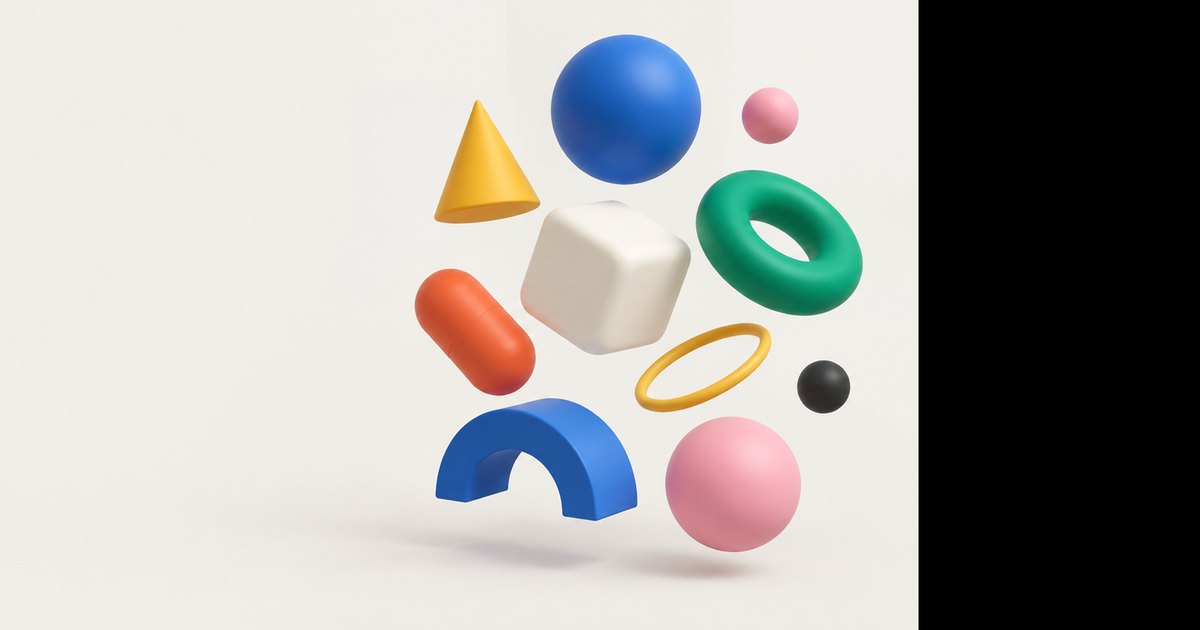
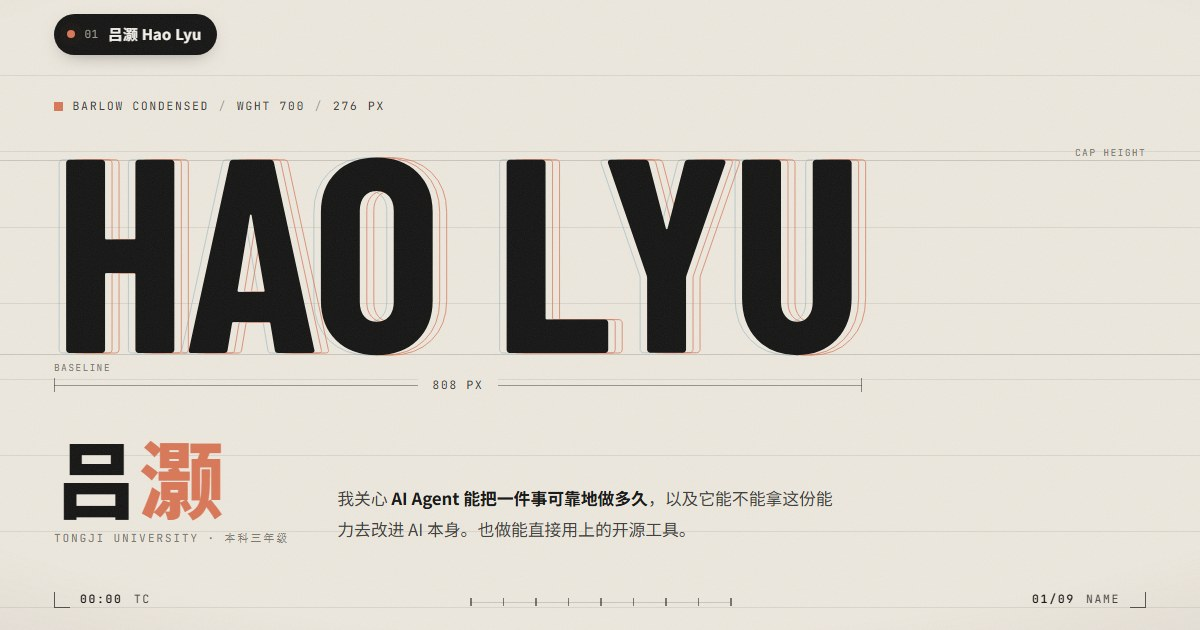
Patent section: replace scanned figures with a drawn inspection animation and method flow; self-made social preview

diff --git a/assets/js/site.js b/assets/js/site.js
@@ -374,5 +374,116 @@
       ctx.strokeStyle = CLAY; ctx.lineWidth = 2; ctx.beginPath(); ctx.arc(cx, cy, R * 0.28 + 8 + Math.sin(t * 2) * 3, 0, 7); ctx.stroke();
     }
   };
+  /* 专利示意：扫描线扫过支护墙面，识别裂缝、剥落、渗漏并换算尺寸（自绘，数值仅为演示） */
+  covers.defect = function (ctx, W, H, t, dt, st) {
+    ctx.clearRect(0, 0, W, H);
+    var x0 = W * 0.08, x1 = W * 0.92, y0 = H * 0.12, y1 = H * 0.74, ww = x1 - x0, wh = y1 - y0;
+    function X(u) { return x0 + u * ww; } function Y(v) { return y0 + v * wh; }
+    var mono = function (px) { return '500 ' + px + 'px "JetBrains Mono", ui-monospace, monospace'; };
+    var fs = Math.max(9, Math.min(12, W * 0.024)), mmPerPx = 6000 / wh;
+    if (!st.defs || st.W !== W) {
+      st.W = W;
+      var spall = []; for (var k = 0; k < 11; k++) { var a = k / 11 * Math.PI * 2, r = 0.05 + 0.018 * Math.sin(k * 2.7) + 0.01 * Math.cos(k * 5.1); spall.push([0.46 + Math.cos(a) * r * 0.8, 0.86 + Math.sin(a) * r * 0.62]); }
+      st.defs = [
+        { kind: 'CRACK', rank: 'P1', place: 'above', pts: [[0.12, 0.37], [0.15, 0.41], [0.14, 0.45], [0.19, 0.5], [0.18, 0.55], [0.24, 0.6], [0.29, 0.62]], br: [[0.19, 0.5], [0.24, 0.49], [0.27, 0.45]] },
+        { kind: 'LEAK', rank: 'P2', place: 'left', leak: [0.77, 0.03, 0.25] },
+        { kind: 'CRACK', rank: 'P3', place: 'below', pts: [[0.55, 0.4], [0.58, 0.45], [0.57, 0.49], [0.62, 0.53], [0.64, 0.58]] },
+        { kind: 'SPALL', rank: 'P2', place: 'below', poly: spall }
+      ];
+      st.defs.forEach(function (d) {
+        var ps = d.pts ? d.pts.concat(d.br || []) : d.poly ? d.poly : [[d.leak[0] - 0.02, d.leak[1]], [d.leak[0] + 0.02, d.leak[2] + 0.03]];
+        d.u0 = Math.min.apply(null, ps.map(function (p) { return p[0]; })); d.u1 = Math.max.apply(null, ps.map(function (p) { return p[0]; }));
+        d.v0 = Math.min.apply(null, ps.map(function (p) { return p[1]; })); d.v1 = Math.max.apply(null, ps.map(function (p) { return p[1]; }));
+        if (d.pts) { var L = 0; for (var i = 1; i < d.pts.length; i++) L += Math.hypot((d.pts[i][0] - d.pts[i - 1][0]) * ww, (d.pts[i][1] - d.pts[i - 1][1]) * wh); d.label = 'L ' + (L * mmPerPx / 1000).toFixed(2) + ' m · W95 ' + (d.rank === 'P1' ? '1.8' : '0.6') + ' mm'; }
+        else if (d.poly) { var A = 0; for (var j = 0; j < d.poly.length; j++) { var p = d.poly[j], q = d.poly[(j + 1) % d.poly.length]; A += (p[0] * q[1] - q[0] * p[1]) * ww * wh; } d.label = 'A ' + (Math.abs(A / 2) * mmPerPx * mmPerPx / 1e6).toFixed(2) + ' m²'; }
+        else d.label = 'L ' + ((d.leak[2] - d.leak[1]) * wh * mmPerPx / 1000).toFixed(2) + ' m';
+      });
+    }
+    // 墙板（钢板桩式分格）
+    var n = 6, pw = ww / n;
+    for (var i = 0; i < n; i++) {
+      ctx.beginPath(); rr(ctx, x0 + i * pw + 2, y0, pw - 4, wh, 4);
+      ctx.fillStyle = 'rgba(237,232,222,.045)'; ctx.fill(); ctx.strokeStyle = 'rgba(237,232,222,.2)'; ctx.lineWidth = 1; ctx.stroke();
+    }
+    // 参照物（已知尺寸，用于求单应性）
+    var rs = ww * 0.075, rx = X(0.9) - rs, ry = Y(0.93) - rs;
+    ctx.fillStyle = CREAM; ctx.fillRect(rx, ry, rs, rs); ctx.fillStyle = INK;
+    [[1, 1], [2, 1], [1, 2], [3, 2], [2, 3]].forEach(function (c) { ctx.fillRect(rx + c[0] * rs / 5, ry + c[1] * rs / 5, rs / 5, rs / 5); });
+    ctx.font = mono(fs * 0.85); ctx.fillStyle = 'rgba(237,232,222,.6)'; ctx.textAlign = 'right'; ctx.fillText('REF 200 mm', rx + rs, ry - 6);
+    // 扫描进度
+    var P = 7, phase = (t % P) / P, su = phase * 1.35 - 0.12, sx = X(su);
+    // 缺陷（原始外观）
+    st.defs.forEach(function (d) {
+      var k = Math.max(0, Math.min(1, (su - d.u1) / 0.07)), hit = k > 0;
+      ctx.strokeStyle = hit ? CLAY : 'rgba(237,232,222,.7)'; ctx.fillStyle = hit ? 'rgba(217,119,87,.55)' : 'rgba(237,232,222,.25)';
+      if (d.pts) {
+        [d.pts, d.br].forEach(function (line, li) {
+          if (!line) return; ctx.lineWidth = (hit ? 2.6 : 1.6) * (li ? 0.7 : 1); ctx.lineJoin = 'round';
+          ctx.beginPath(); line.forEach(function (p, j) { j ? ctx.lineTo(X(p[0]), Y(p[1])) : ctx.moveTo(X(p[0]), Y(p[1])); }); ctx.stroke();
+        });
+      } else if (d.poly) {
+        ctx.beginPath(); d.poly.forEach(function (p, j) { j ? ctx.lineTo(X(p[0]), Y(p[1])) : ctx.moveTo(X(p[0]), Y(p[1])); }); ctx.closePath(); ctx.fill(); ctx.lineWidth = 1.2; ctx.stroke();
+      } else {
+        var lx = X(d.leak[0]), ya = Y(d.leak[1]), yb = Y(d.leak[2]);
+        var g = ctx.createLinearGradient(0, ya, 0, yb); g.addColorStop(0, hit ? 'rgba(217,119,87,.7)' : 'rgba(237,232,222,.5)'); g.addColorStop(1, 'rgba(237,232,222,0)');
+        ctx.fillStyle = g; ctx.beginPath(); ctx.moveTo(lx - ww * 0.012, ya); ctx.quadraticCurveTo(lx - ww * 0.02, (ya + yb) / 2, lx, yb); ctx.quadraticCurveTo(lx + ww * 0.02, (ya + yb) / 2, lx + ww * 0.012, ya); ctx.fill();
+        ctx.beginPath(); ctx.arc(lx, yb + wh * 0.02 + ((t * 40) % (wh * 0.05)), 2.2, 0, 7); ctx.fillStyle = hit ? CLAY : 'rgba(237,232,222,.55)'; ctx.fill();
+      }
+    });
+    // 支撑（钢围檩与横撑）
+    [0.3, 0.68].forEach(function (v) {
+      ctx.fillStyle = 'rgba(237,232,222,.2)'; ctx.fillRect(x0 - 8, Y(v) - 5, ww + 16, 10);
+      for (var b = 0; b <= n; b++) { ctx.beginPath(); ctx.arc(x0 + b * pw, Y(v), 2.6, 0, 7); ctx.fillStyle = 'rgba(237,232,222,.55)'; ctx.fill(); }
+    });
+    // 扫描光带
+    if (su > -0.05 && su < 1.05) {
+      var gb = ctx.createLinearGradient(sx - ww * 0.12, 0, sx, 0); gb.addColorStop(0, 'rgba(217,119,87,0)'); gb.addColorStop(1, 'rgba(217,119,87,.22)');
+      ctx.fillStyle = gb; ctx.fillRect(sx - ww * 0.12, y0 - 8, ww * 0.12, wh + 16);
+      ctx.fillStyle = CLAY; ctx.fillRect(sx - 1, y0 - 14, 2, wh + 28);
+    }
+    // 识别框与标注
+    var found = 0, p1 = false;
+    st.defs.forEach(function (d) {
+      var k = Math.max(0, Math.min(1, (su - d.u1) / 0.07)); if (k <= 0) return; found++; if (d.rank === 'P1') p1 = true;
+      var bx = X(d.u0) - 8, by = Y(d.v0) - 8, bw = X(d.u1) - X(d.u0) + 16, bh = Y(d.v1) - Y(d.v0) + 16, c = 9;
+      ctx.globalAlpha = k; ctx.strokeStyle = CLAY; ctx.lineWidth = 1.5; ctx.beginPath();
+      [[bx, by, 1, 1], [bx + bw, by, -1, 1], [bx, by + bh, 1, -1], [bx + bw, by + bh, -1, -1]].forEach(function (q) { ctx.moveTo(q[0] + q[2] * c, q[1]); ctx.lineTo(q[0], q[1]); ctx.lineTo(q[0], q[1] + q[3] * c); });
+      ctx.stroke();
+      ctx.font = mono(fs); var l1 = d.kind + ' · ' + d.rank, l2 = d.label;
+      var tw = Math.max(ctx.measureText(l1).width, ctx.measureText(l2).width) + 16, lh = fs * 1.35, th = lh * 2 + 8, tx, ty;
+      if (d.place === 'below') { tx = bx; ty = by + bh + 6; }
+      else if (d.place === 'left') { tx = bx - tw - 6; ty = by; }
+      else { tx = bx; ty = by - th - 6; }
+      tx = Math.min(W - tw - 8, Math.max(8, tx)); ty = Math.max(8, ty);
+      ctx.fillStyle = CLAY; ctx.beginPath(); rr(ctx, tx, ty, tw, th, 5); ctx.fill();
+      ctx.fillStyle = INK; ctx.textAlign = 'left'; ctx.textBaseline = 'middle';
+      ctx.font = '600 ' + fs + 'px "JetBrains Mono", ui-monospace, monospace'; ctx.fillText(l1, tx + 8, ty + 4 + lh / 2);
+      ctx.font = mono(fs); ctx.fillText(l2, tx + 8, ty + 4 + lh * 1.5);
+      ctx.textBaseline = 'alphabetic'; ctx.globalAlpha = 1;
+    });
+    // 底部读数
+    var by2 = H * 0.86;
+    ctx.fillStyle = 'rgba(237,232,222,.14)'; ctx.fillRect(x0, by2 - 12, ww, 1);
+    ctx.font = mono(fs); ctx.textAlign = 'left'; ctx.fillStyle = 'rgba(237,232,222,.75)';
+    ctx.fillText('DETECTED ' + found + '/' + st.defs.length + (su > 1 ? ' · SCAN DONE' : ' · SCANNING'), x0, by2 + 8);
+    ctx.fillStyle = p1 ? CLAY : 'rgba(237,232,222,.45)';
+    ctx.fillText(p1 ? 'P1 ≥ τ → VLM + 知识库 → REPORT.json' : 'RISK < τ · 直接汇总', x0, by2 + 8 + fs * 1.9);
+    ctx.textAlign = 'left';
+  };
+
   $$('canvas[data-cover]').forEach(function (cv) { var f = covers[cv.getAttribute('data-cover')]; if (f) stage(cv, f); });
+
+  /* 流程条：逐步点亮 */
+  $$('.flow').forEach(function (ol) {
+    var items = $$('li', ol), i = 0;
+    if (reduced || !('IntersectionObserver' in window)) { items.forEach(function (li) { li.classList.add('on'); }); return; }
+    var io = new IntersectionObserver(function (es) {
+      if (!es[0].isIntersecting) return; io.disconnect();
+      setInterval(function () {
+        if (i > items.length) { items.forEach(function (li) { li.classList.remove('on'); }); i = 0; return; }
+        if (items[i]) items[i].classList.add('on'); i++;
+      }, 900);
+    }, { threshold: 0.3 });
+    io.observe(ol);
+  });
 })();

diff --git a/assets/css/site.css b/assets/css/site.css
@@ -258,11 +258,20 @@ a:hover { color: var(--clay-deep); }
 .patent .num span { color: var(--clay); }
 .patent h3 { font-size: clamp(1.25rem, 2vw, 1.6rem); font-weight: 900; line-height: 1.5; margin: 1.4rem 0 1rem; }
 .patent p { color: var(--ink-2); }
-.figs { display: grid; grid-template-columns: 1fr 1fr; gap: 14px; }
-.figs a { display: block; background: #fff; border-radius: 10px; overflow: hidden; border: 1px solid var(--line-2); text-decoration: none; }
-.figs img { aspect-ratio: 3 / 4; object-fit: cover; object-position: 50% 30%; width: 100%; filter: grayscale(1) contrast(1.05); transition: transform .8s var(--ease); }
-.figs a:hover img { transform: scale(1.04); }
-.figs span { display: block; padding: .55rem .75rem; color: var(--ink-2); border-top: 1px solid var(--line); }
+.patent-fig { margin: 0; }
+.pfig { position: relative; aspect-ratio: 4 / 5; border-radius: 18px; overflow: hidden; background: var(--night); color: var(--cream-on-night); }
+.pfig canvas { position: absolute; inset: 0; width: 100%; height: 100%; display: block; }
+.pfig .tag { position: absolute; left: 16px; top: 14px; z-index: 1; }
+.patent-fig figcaption { margin-top: .7rem; color: var(--mute); }
+.flow { list-style: none; padding: 0; margin: clamp(36px, 5vw, 64px) 0 0; display: grid; grid-template-columns: repeat(6, minmax(0, 1fr)); gap: 10px; counter-reset: s; }
+.flow li { counter-increment: s; position: relative; border-top: 1.5px solid var(--ink); padding: 14px 10px 0 0; display: flex; flex-direction: column; gap: .35rem; transition: color .35s; }
+.flow li::before { content: "0" counter(s); font-family: var(--mono); font-size: .64rem; letter-spacing: .14em; color: var(--mute); }
+.flow li::after { content: ""; position: absolute; left: 0; top: -1.5px; height: 3px; width: 0; background: var(--clay); transition: width .9s var(--ease); }
+.flow li.on::after { width: 100%; }
+.flow li b { font-weight: 900; font-size: 1.02rem; }
+.flow li span { font-size: .84rem; color: var(--ink-2); line-height: 1.6; }
+.flow li:nth-child(5) b::after { content: " ◆"; color: var(--clay); font-size: .7em; vertical-align: .15em; }
+@media (max-width: 900px) { .flow { grid-template-columns: repeat(2, minmax(0, 1fr)); gap: 18px 14px; } }
 @media (max-width: 900px) { .patent { grid-template-columns: 1fr; } }
 
 /* ---------- 获奖（陶土橙带） ---------- */

diff --git a/index.html b/index.html
@@ -211,11 +211,19 @@
           <tr><th>Inventors</th><td>共 7 人 · 本人第 3 位</td></tr>
         </table>
       </div>
-      <div class="figs reveal" style="--d:.12s">
-        <a href="assets/img/patent-fig1.webp" target="_blank" rel="noopener"><img src="assets/img/patent-fig1.webp" alt="专利附图 1：检测方法流程图" loading="lazy" width="1131" height="1600"><span class="mono">Fig. 1 · 方法流程</span></a>
-        <a href="assets/img/patent-fig2.webp" target="_blank" rel="noopener"><img src="assets/img/patent-fig2.webp" alt="专利附图 2：系统功能模块图" loading="lazy" width="1131" height="1600"><span class="mono">Fig. 2 · 系统模块</span></a>
-      </div>
+      <figure class="patent-fig reveal" style="--d:.12s">
+        <div class="pfig"><canvas data-cover="defect" role="img" aria-label="自绘示意动画：扫描线扫过带钢支撑的支护墙面，依次识别裂缝、剥落和渗漏，标注实际尺寸与风险等级"></canvas><span class="tag mono">Fig. A · 支护墙面检测</span></div>
+        <figcaption class="mono">自绘示意 · 数值仅为演示</figcaption>
+      </figure>
     </article>
+    <ol class="flow" aria-label="检测方法的六个步骤">
+      <li><b>采集</b><span>移动装置上的工业相机与定位单元</span></li>
+      <li><b>分割支护区域</b><span>语义分割先剔除背景</span></li>
+      <li><b>缺陷实例</b><span>改进的 YOLOv11-seg 输出裂缝、剥落、渗漏的掩码</span></li>
+      <li><b>换算尺寸</b><span>用参照物求单应性，得到面积、骨架长度、95 分位宽度</span></li>
+      <li><b>风险评分</b><span>按尺寸和形态排序，超过阈值才调用 VLM</span></li>
+      <li><b>诊断报告</b><span>结合知识库给出成因与维修建议，输出 JSON 报告</span></li>
+    </ol>
   </div>
 </section>
 
